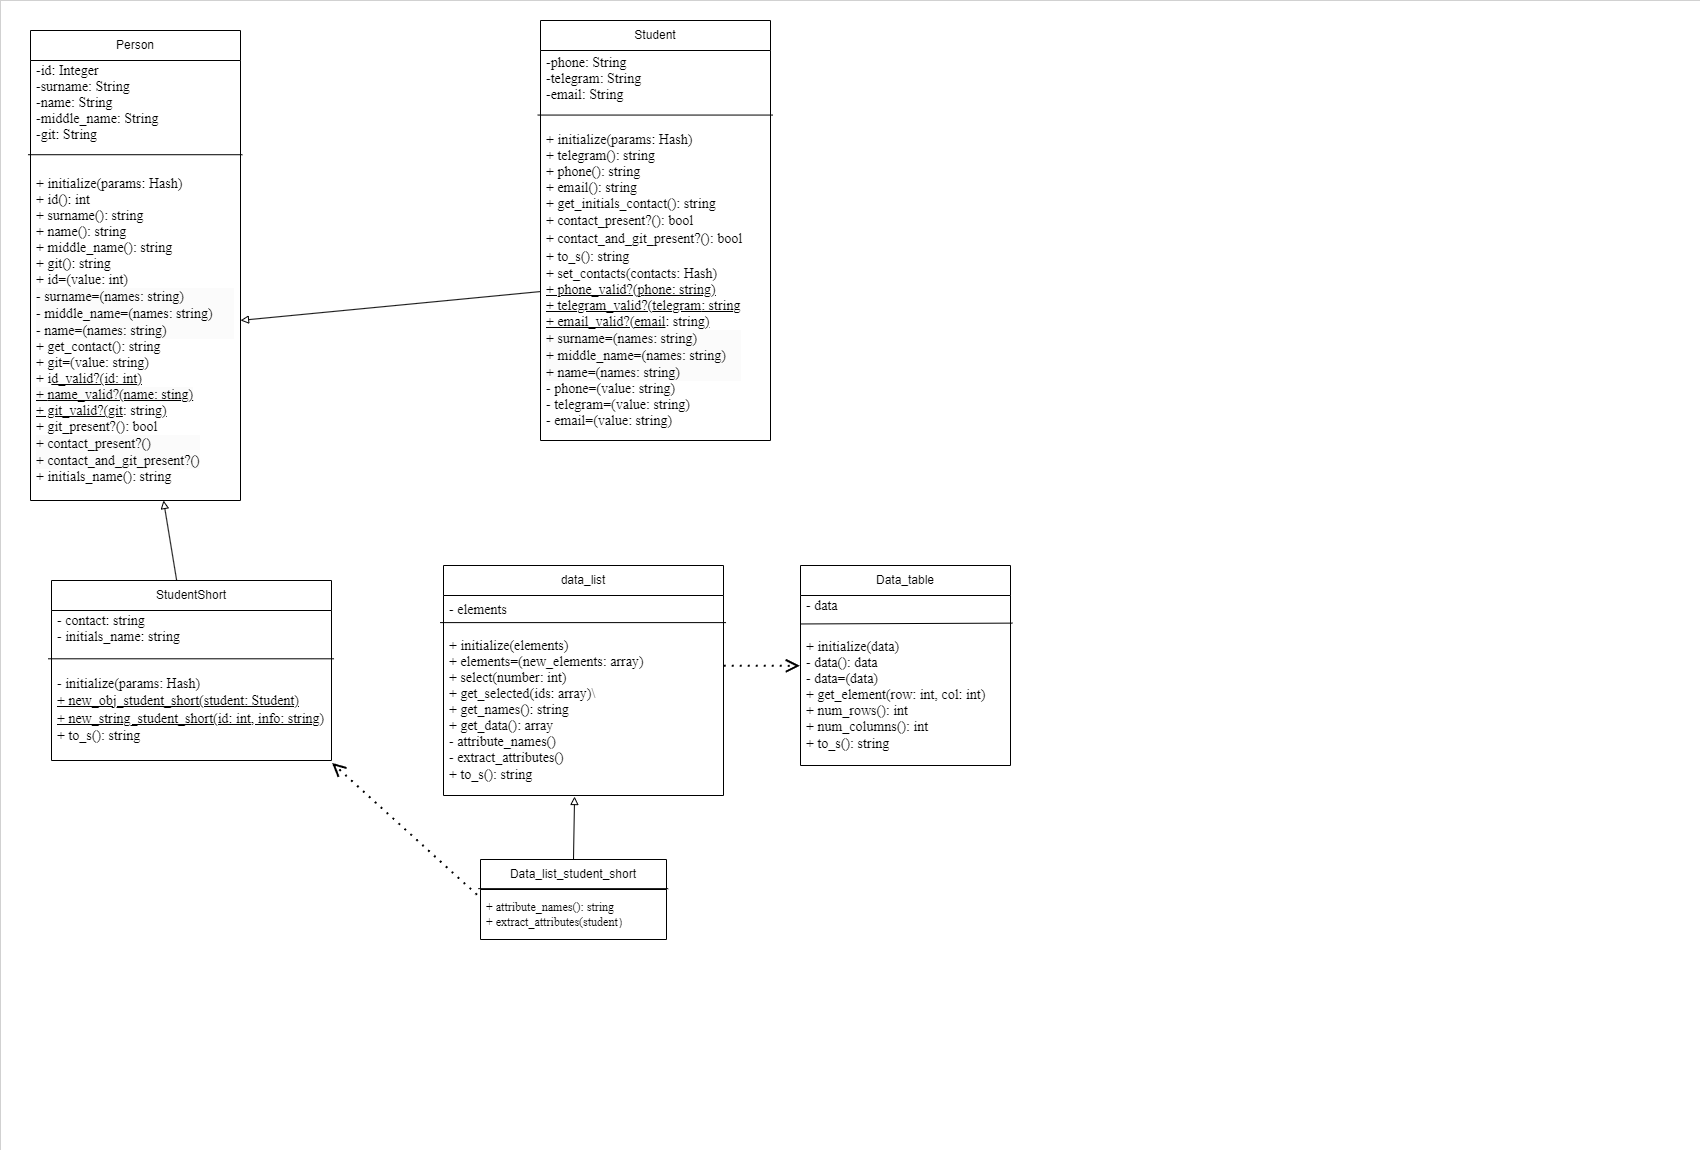
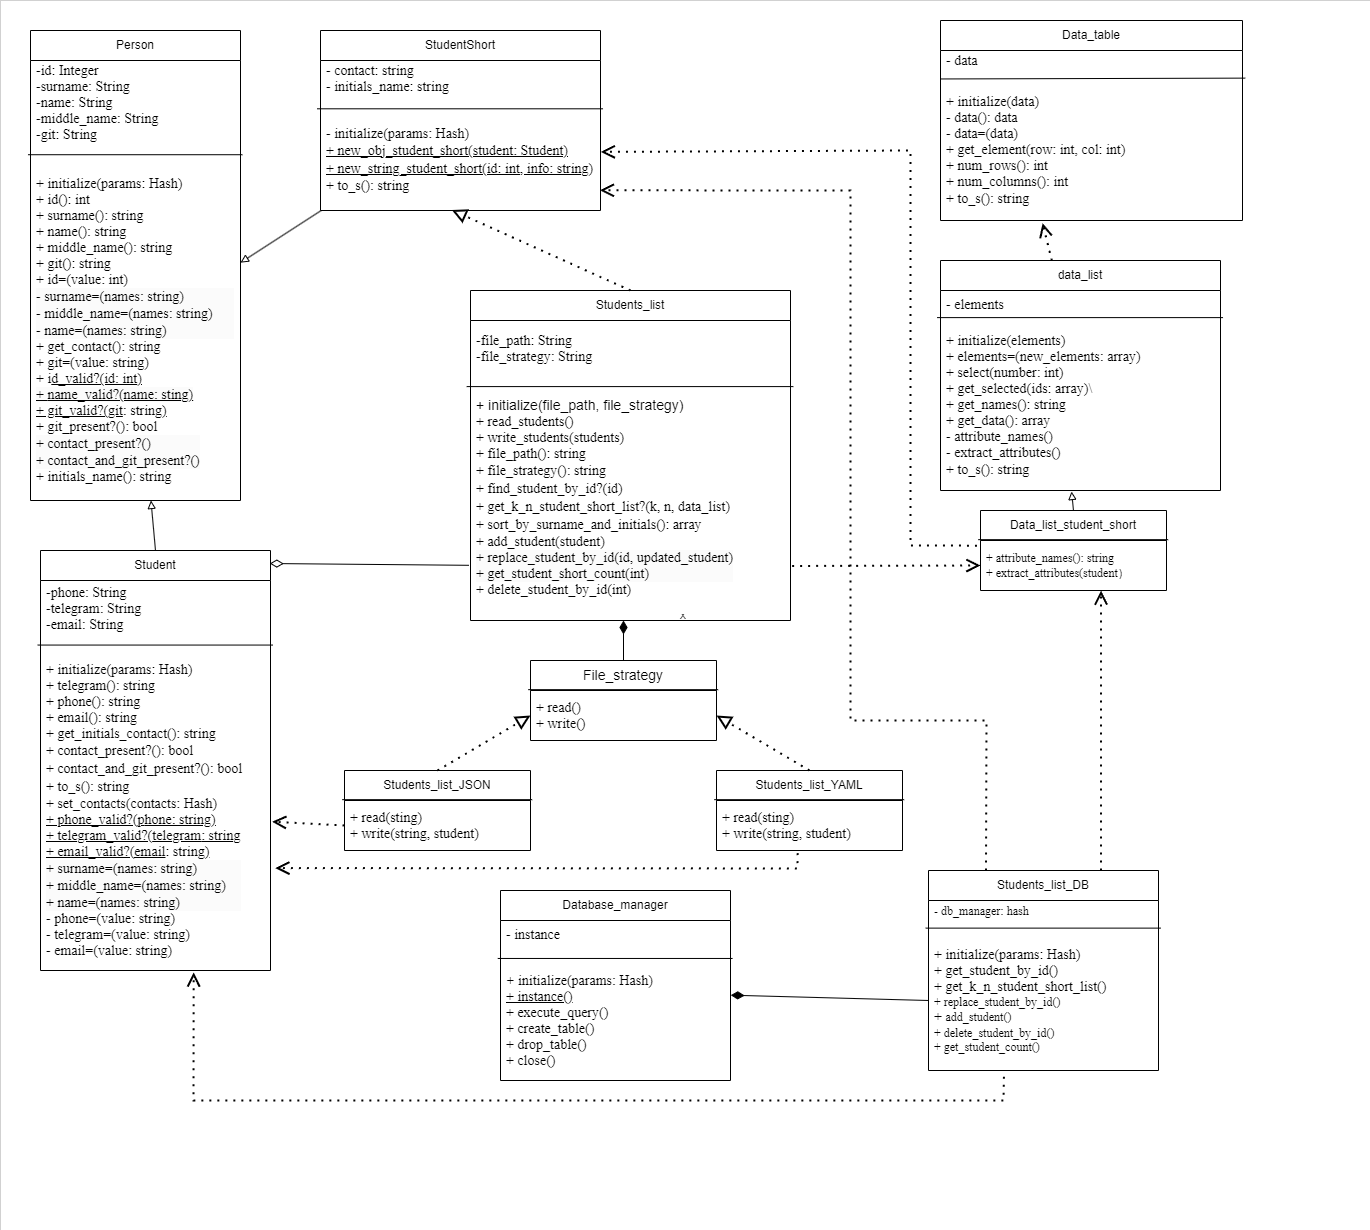
Update method LB4.T3.10

diff --git a/Class model/Database_manager.rb b/Class model/Database_manager.rb
@@ -25,6 +25,35 @@ class Database_manager
     @conn.exec_params(query, params)
   end
 
+  def create_table()
+    begin
+    @conn.exec(
+      "
+      create table Student
+      (
+        id Number,
+        last_name Varchar2(100),
+        first_name Varchar2(100),
+        surname Varchar2(100),
+        github Varchar2(100),
+        phone Varchar2(17),
+        mail Varchar2(100)
+      )
+      "
+    )
+    rescue => e
+      puts e
+    end
+  end
+
+  def drop_table()
+    begin
+      @conn.exe('drop table Student')
+      @conn.commit
+    rescue => e
+      puts e
+    end
+
   def close
     @conn.close
     puts "Подключение к базе данных закрыто."
